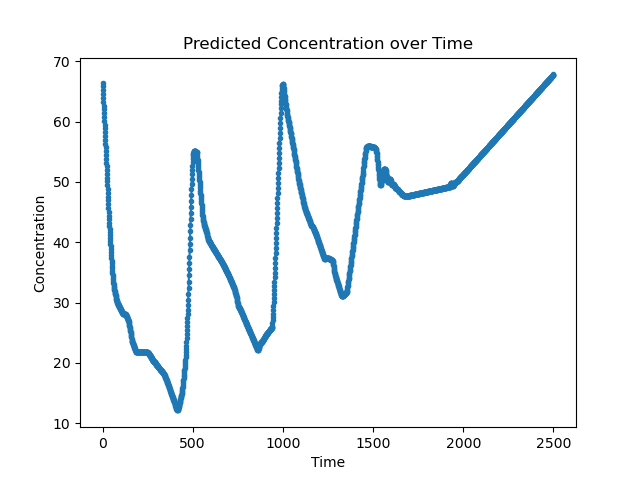
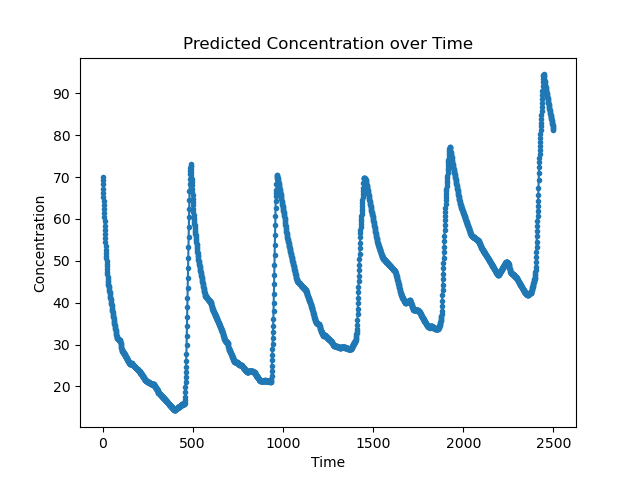
2503111620

diff --git a/250309/nivolumab.py b/250309/nivolumab.py
@@ -21,7 +21,7 @@ BATCH_SIZE = 128
 NUM_WORKERS = 8
 
 PIN_MEMORY = True
-LEARNING_RATE = 1e-4
+LEARNING_RATE = 5e-6
 STATIC_INPUT_DIM = 7
 STATIC_HIDDEN_DIM = 16
 ODE_HIDDEN_DIM = 16
